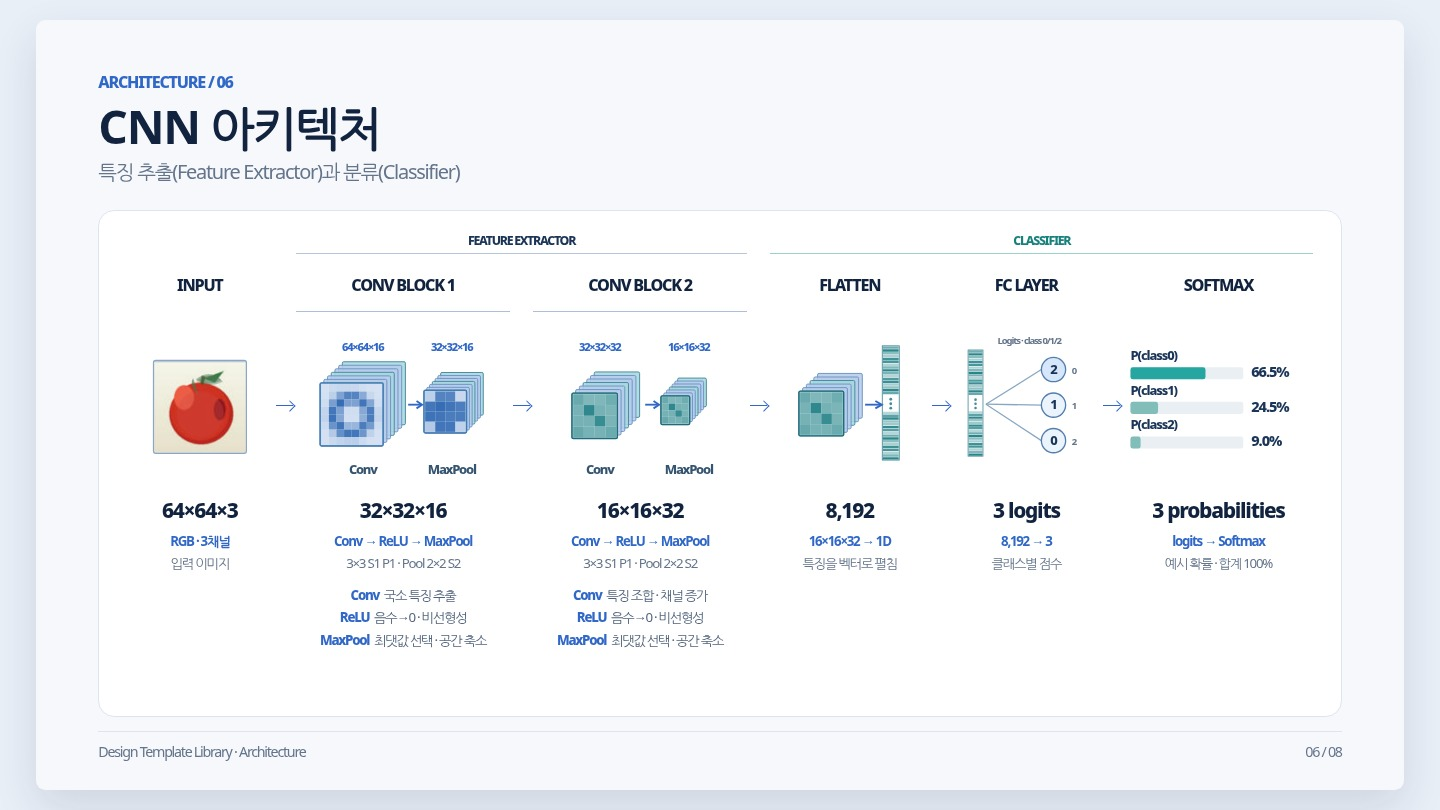
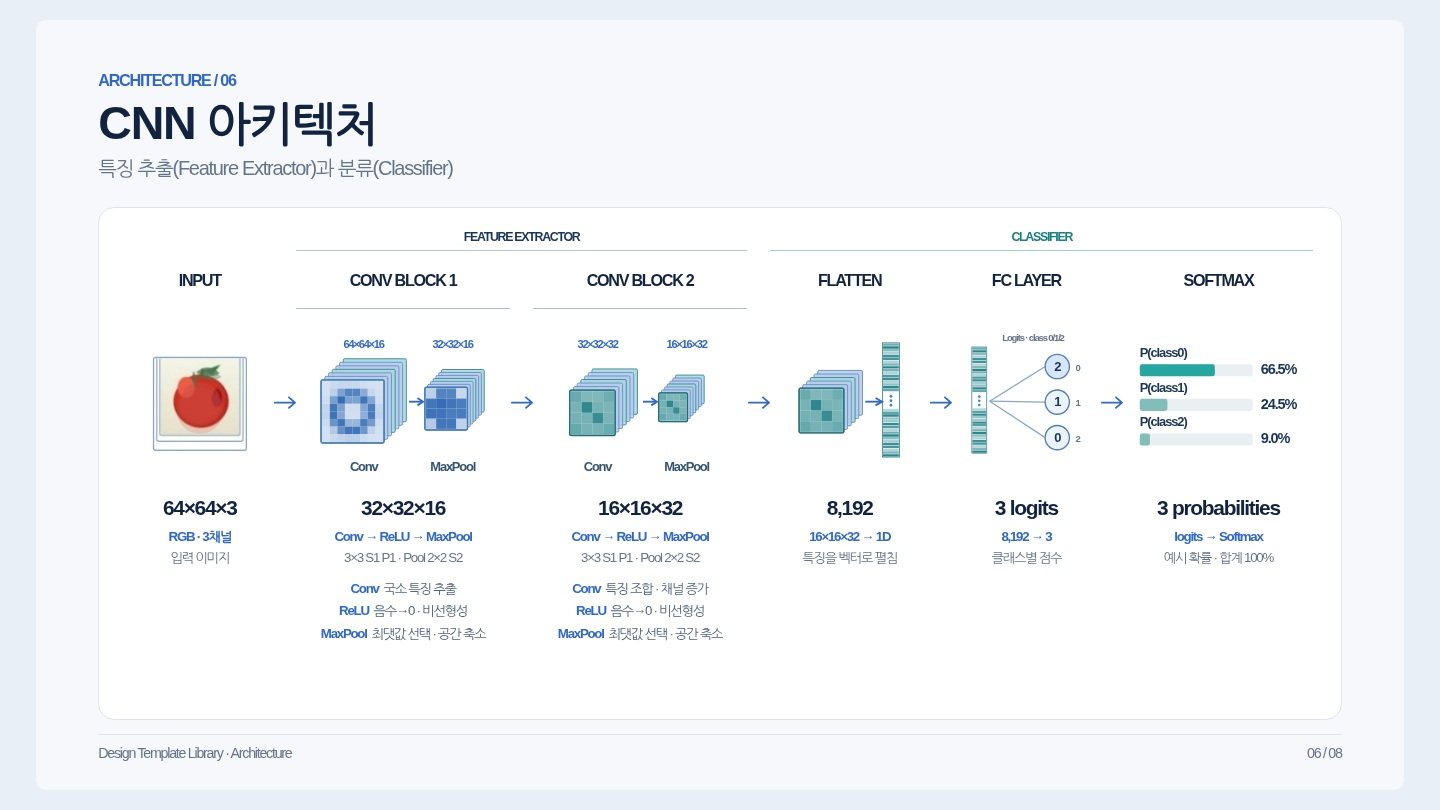
fix(architecture): join connector arrowheads and center stage artwork

diff --git a/templates/html/architecture.html b/templates/html/architecture.html
@@ -36,18 +36,25 @@
   min-width:0; position:relative; display:flex; flex-direction:column;
   align-items:center; text-align:center; margin-top:8px;
 }
-.architecture-slide .arch-stage:not(:last-child)::after {
-  content:""; position:absolute; top:137px; right:-21px; width:18px;
-  height:1.8px; background:var(--blue);
-}
-.architecture-slide .arch-stage:not(:last-child)::before {
-  content:""; position:absolute; top:134px; right:-22px; width:7px; height:7px;
-  border-top:1.8px solid var(--blue); border-right:1.8px solid var(--blue);
-  transform:rotate(45deg);
+/* One continuous vector path keeps every shaft and arrowhead precisely joined. */
+.architecture-slide .arch-stage .arch-connector {
+  position:absolute; top:131px; left:calc(100% + 1px);
+  width:24px; height:14px; overflow:visible; z-index:2;
+  color:var(--blue); pointer-events:none;
 }
 .architecture-slide .arch-title {font-size:17px; font-weight:800; color:var(--navy); min-height:40px; height:40px; width:100%; white-space:nowrap; display:flex; align-items:flex-start; justify-content:center;}
 .architecture-slide .arch-graphic {display:block; width:100%; height:195px; overflow:visible;}
-.architecture-slide .arch-graphic svg {display:block; width:100%; height:100%;}
+ .architecture-slide .arch-graphic svg {display:block; width:100%; height:100%; overflow:visible;}
+/* Titles, tensor shapes, descriptions, and centered SVG geometry share one stage axis. */
+.architecture-slide .arch-stage > .arch-title,
+.architecture-slide .arch-stage > .arch-graphic,
+.architecture-slide .arch-stage > .arch-shape,
+.architecture-slide .arch-stage > .arch-operation,
+.architecture-slide .arch-stage > .arch-explain {
+  margin-left:auto; margin-right:auto; text-align:center;
+}
+.architecture-slide .arch-stage > .arch-graphic {display:flex; align-items:center; justify-content:center;}
+
 .architecture-slide .arch-shape {font-size:22px; font-weight:800; color:var(--navy); white-space:nowrap; line-height:1.2;}
 .architecture-slide .arch-operation {font-size:14px; font-weight:700; color:var(--blue); margin-top:10px; white-space:nowrap;}
 .architecture-slide .arch-explain {font-size:14px; color:var(--muted); margin-top:5px; line-height:1.3; white-space:nowrap;}
@@ -70,7 +77,7 @@
   .architecture-slide .arch-phase-band {display:none;}
   .architecture-slide .content > .ref-card {height:auto; overflow:visible; padding:21px;}
   .architecture-slide .arch-pipeline {grid-template-columns:repeat(3,minmax(0,1fr));gap:24px 13px;margin:20px 0 19px;}
-  .architecture-slide .arch-stage:not(:last-child)::before,.architecture-slide .arch-stage:not(:last-child)::after {display:none;}
+  .architecture-slide .arch-connector {display:none;}
   .architecture-slide .arch-graphic {height:155px;}
   .architecture-slide .arch-title {font-size:15px;}
   .architecture-slide .arch-shape {font-size:20px;}
@@ -87,16 +94,18 @@
     justify-items:start; align-items:center; column-gap:13px;
     padding:11px 0 14px; border-bottom:1px solid var(--border); text-align:left;
   }
-  .architecture-slide .arch-stage:not(:last-child)::after {display:block;top:auto;bottom:-4px;right:50%;width:1.5px;height:9px;}
-  .architecture-slide .arch-stage:not(:last-child)::before {display:block;top:auto;bottom:-6px;right:calc(50% - 3px);transform:rotate(135deg);}
-  .architecture-slide .arch-title {grid-column:2;grid-row:1;min-height:0;height:auto;display:block;white-space:normal;}
+  .architecture-slide .arch-stage .arch-connector {
+    display:block; left:calc(50% - 12px); top:auto; bottom:-12px;
+    transform:rotate(90deg); transform-origin:50% 50%;
+  }
+  .architecture-slide .arch-title {grid-column:2;grid-row:1;min-height:0;height:auto;display:block;white-space:normal; text-align:left!important; margin-left:0!important;}
   .architecture-slide .arch-title[data-group]::before {
     content:attr(data-group); display:block; font-size:11px;
     font-weight:750; color:var(--teal); margin-bottom:3px;
   }
-  .architecture-slide .arch-graphic {grid-column:1;grid-row:1/5;width:126px;height:124px;}
-  .architecture-slide .arch-shape {grid-column:2;grid-row:2;font-size:20px;}
-  .architecture-slide .arch-operation {grid-column:2;grid-row:3;margin:0;font-size:13px;white-space:normal;}
+  .architecture-slide .arch-graphic {grid-column:1;grid-row:1/5;width:126px;height:124px;margin-left:0!important;margin-right:0!important;}
+  .architecture-slide .arch-shape {grid-column:2;grid-row:2;font-size:20px;text-align:left!important;margin:0!important;justify-self:start;}
+  .architecture-slide .arch-operation {grid-column:2;grid-row:3;margin:0!important;font-size:13px;white-space:normal;text-align:left!important;}
  .architecture-slide .arch-explain {grid-column:2;grid-row:4;font-size:12px;white-space:normal;}
   .architecture-slide .arch-stage[data-block] .arch-title {width:auto; border-bottom:0; padding-bottom:0; margin-bottom:0; min-height:0;height:auto;}
   .architecture-slide .arch-step-roles {grid-column:2;grid-row:5;align-items:flex-start!important;margin-top:6px!important;gap:2px!important;}
@@ -172,7 +181,8 @@
       container.dataset.art==='softmax'?'0 0 235 165':'0 0 170 165';
     const svg=el('svg',{viewBox,role:'img','aria-label':label},container);
     const title=el('title',{},svg); title.textContent=label;
-    return svg;
+    const artwork=el('g',{'data-artwork':''},svg);
+    return {svg,artwork};
   }
   const activations=Array.from({length:8},(_,y)=>Array.from({length:8},(_,x)=>{
     const edge=Math.exp(-Math.pow(Math.sqrt((x-3.5)**2+(y-3.6)**2)-2.3,2)/.72);
@@ -310,7 +320,20 @@
   document.querySelectorAll('.arch-graphic[data-art]').forEach(node=>{
     const key=node.dataset.art;
     const title=node.closest('.arch-stage').getAttribute('aria-label');
-    handlers[key](makeSvg(node,title));
+    const {svg,artwork}=makeSvg(node,title);
+    handlers[key](artwork);
+    // Center the actual figure bounds beneath the stage label; an SVG viewBox
+    // alone can be centered while the visible content remains off-axis.
+    const bounds=artwork.getBBox();
+    const viewBox=svg.viewBox.baseVal;
+    const offset=viewBox.x+viewBox.width/2-(bounds.x+bounds.width/2);
+    artwork.setAttribute('transform',`translate(${offset.toFixed(3)} 0)`);
+  });
+  document.querySelectorAll('.arch-stage:not(:last-child)').forEach(stage=>{
+    const arrow=el('svg',{viewBox:'0 0 26 14',class:'arch-connector',
+      'aria-hidden':'true',focusable:'false'},stage);
+    el('path',{d:'M1 7 H24 M17 1 L24 7 L17 13',fill:'none',stroke:'currentColor',
+      'stroke-width':2,'stroke-linecap':'round','stroke-linejoin':'round'},arrow);
   });
 })();
 </script>

diff --git a/TEMPLATE_CATALOG.md b/TEMPLATE_CATALOG.md
@@ -1,6 +1,6 @@
 # Design Template Catalog · 8 HTML Reference Patterns
 
-**2026-10-21 Concept / Architecture 개선:** Concept은 **왼쪽 흰색 외부 카드 섹션을 유지**하면서 사진 자체에 붙은 추가 배경·테두리·그림자를 제거했습니다. 사진의 80×80 리샘플 결과에서 선택된 실제 4×4 픽셀값을 Canvas로 가져오며, 확대 셀·RGB·HEX 값이 동일한 이미지 데이터에 연결됩니다. Architecture는 **단일 RGB 이미지(64×64×3)** → **Conv Block 1** [Conv 3×3 S1 P1 (64×64×16) → ReLU → MaxPool 2×2 S2 (32×32×16)] → **Conv Block 2** [Conv 3×3 S1 P1 (32×32×32) → ReLU → MaxPool 2×2 S2 (16×16×32)] → **Flatten 8,192D** → **FC Layer 3 logits** → **Softmax** 확률 `P(class0)`, `P(class1)`, `P(class2)`로 이어지는 반복 CNN 블록을 논문형 모식도로 표현합니다. Conv는 이 예제에서 H·W를 유지하며 출력 채널을 늘리고, MaxPool이 공간 크기를 절반으로 줄입니다. Softmax의 확률(66.5%·24.5%·9.0%)은 예시 logits [2, 1, 0]에서 계산한 값으로 실제 이미지에 대한 예측이 아닙니다. 중복된 하단 설명을 제거하고 각 단계에 연산과 Shape를 직접 표기했습니다. 상단의 중복 문구 대신 Conv Block 1·2 제목 아래 가로 구분선을 적용하고, 각 블록 안에 Conv(학습된 특징 추출)·ReLU(음수를 0으로 바꾸는 비선형 활성화)·MaxPool(국소 최댓값을 취해 공간 크기 축소)의 역할을 간단히 배치했습니다. Conv Block 내부 Conv·MaxPool 도형과 Flatten 내부 Stack→Vector 간격은 줄이고, 단계 간 간격은 넓혀 그룹 차이를 나타냅니다. 블록 내부·Flatten·단계 연결 화살표는 동일한 Blue와 공통 수평축으로 정렬합니다. Chromium에서 1500×950 / 1366×768 / 1280×720 / 390×844 브라우저 검증 및 [검증 JSON](previews/review/concept-architecture-validation.json)과 두 최신 프리뷰를 갱신했습니다.
+**2026-10-21 Concept / Architecture 개선:** Concept은 **왼쪽 흰색 외부 카드 섹션을 유지**하면서 사진 자체에 붙은 추가 배경·테두리·그림자를 제거했습니다. 사진의 80×80 리샘플 결과에서 선택된 실제 4×4 픽셀값을 Canvas로 가져오며, 확대 셀·RGB·HEX 값이 동일한 이미지 데이터에 연결됩니다. Architecture는 **단일 RGB 이미지(64×64×3)** → **Conv Block 1** [Conv 3×3 S1 P1 (64×64×16) → ReLU → MaxPool 2×2 S2 (32×32×16)] → **Conv Block 2** [Conv 3×3 S1 P1 (32×32×32) → ReLU → MaxPool 2×2 S2 (16×16×32)] → **Flatten 8,192D** → **FC Layer 3 logits** → **Softmax** 확률 `P(class0)`, `P(class1)`, `P(class2)`로 이어지는 반복 CNN 블록을 논문형 모식도로 표현합니다. Conv는 이 예제에서 H·W를 유지하며 출력 채널을 늘리고, MaxPool이 공간 크기를 절반으로 줄입니다. Softmax의 확률(66.5%·24.5%·9.0%)은 예시 logits [2, 1, 0]에서 계산한 값으로 실제 이미지에 대한 예측이 아닙니다. 중복된 하단 설명을 제거하고 각 단계에 연산과 Shape를 직접 표기했습니다. 상단의 중복 문구 대신 Conv Block 1·2 제목 아래 가로 구분선을 적용하고, 각 블록 안에 Conv(학습된 특징 추출)·ReLU(음수를 0으로 바꾸는 비선형 활성화)·MaxPool(국소 최댓값을 취해 공간 크기 축소)의 역할을 간단히 배치했습니다. Conv Block 내부 Conv·MaxPool 도형과 Flatten 내부 Stack→Vector 간격은 줄이고, 단계 간 간격은 넓혀 그룹 차이를 나타냅니다. 블록 내부·Flatten·단계 연결 화살표는 동일한 Blue와 공통 수평축으로 정렬합니다. 블록 간 연결 화살표는 직선과 화살촉을 하나의 연속된 SVG 경로로 그려 틈과 정렬 오차를 없애고, 각 단계의 실측 SVG 그림 경계를 중앙 정렬해 제목·그림·출력 Shape 중심축을 일치시킵니다. Chromium에서 1500×950 / 1366×768 / 1280×720 / 390×844 브라우저 검증 및 [검증 JSON](previews/review/concept-architecture-validation.json)과 두 최신 프리뷰를 갱신했습니다.
 
 **2026-10-21 검토 상태:** 8종 HTML 브라우저 검증 완료 · 05 문장 단위 줄바꿈 및 공통 어절 보호 반영 · 디자인 승인 대기. [유형별 결과](docs/REFERENCE_REVIEW_2026-10-21.md) · [Before / After](previews/review/README.md)
 
